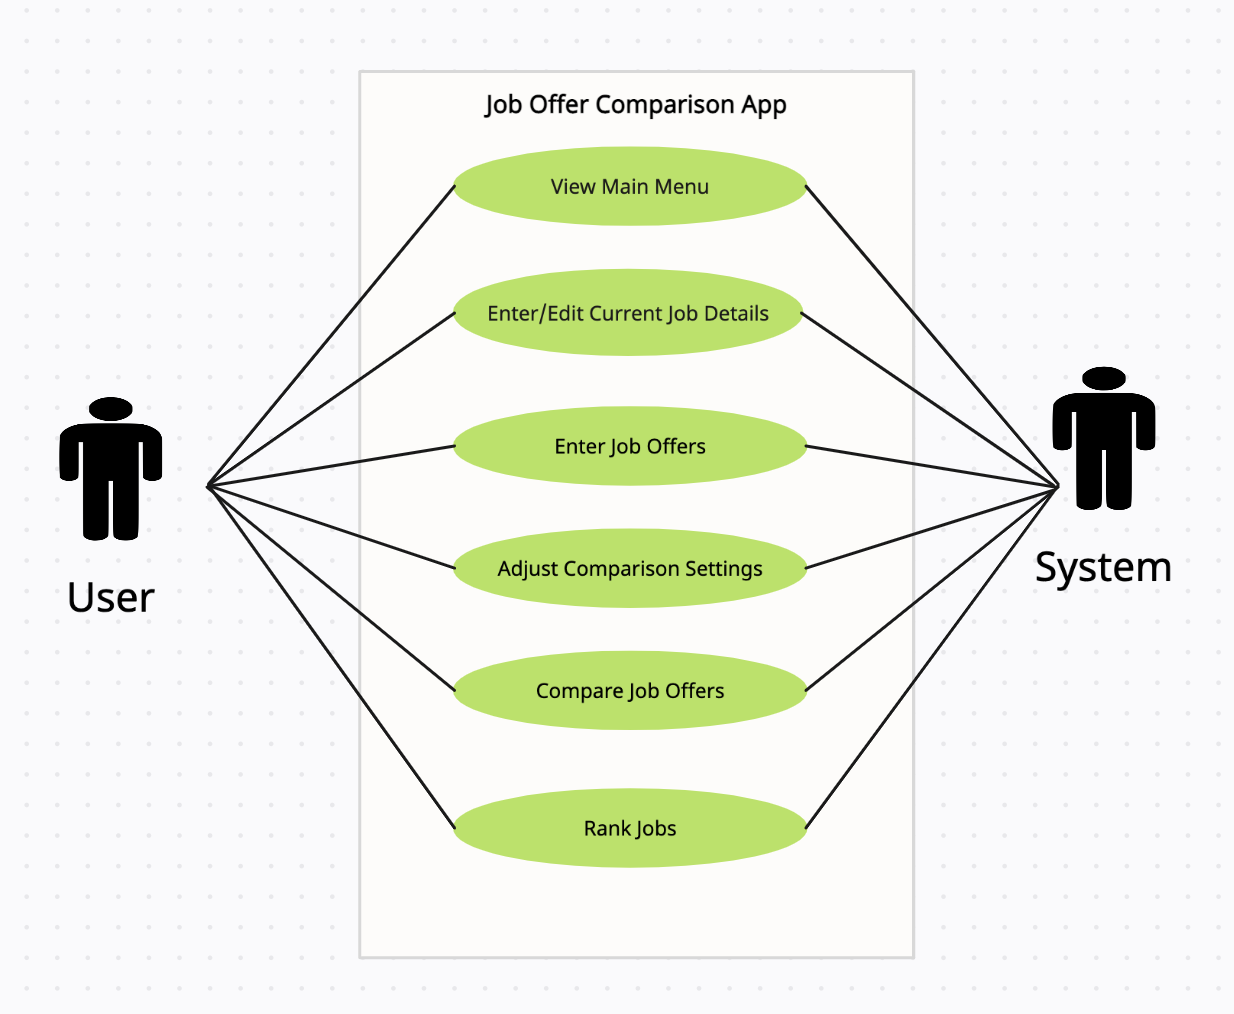
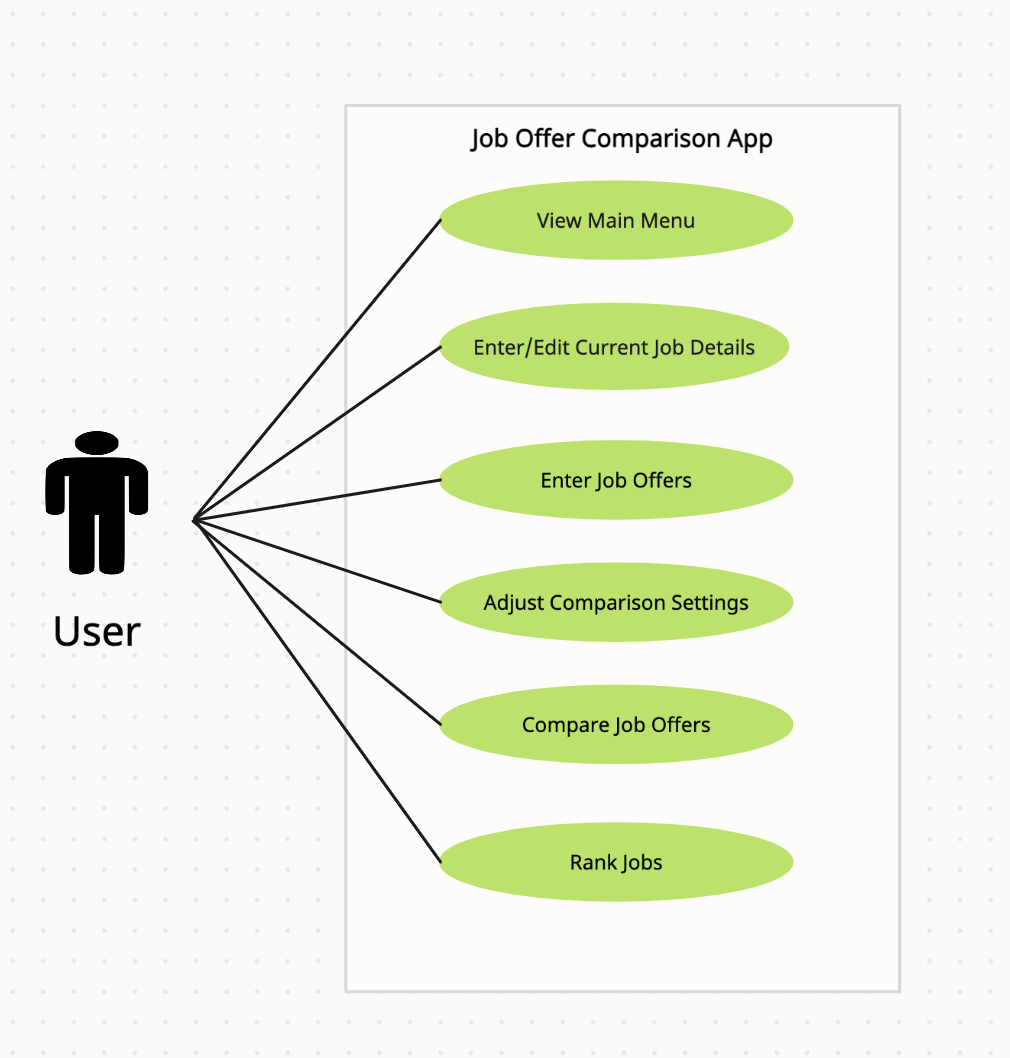
Update use case and component Diagram

diff --git a/GroupProject/Docs/DesignDocument.md b/GroupProject/Docs/DesignDocument.md
@@ -65,9 +65,7 @@
 
 **Comparison Settings Manager:** The Comparison Settings Manager component allows the user to adjust the comparison settings by assigning integer weights to each factor. This component interacts with Storage to save, retrieve and update Comparisions settings for various factors involved.
 
-**Job Comparison Engine:** The Job Comparison Engine component performs the comparison of job offers based on the user's selected criteria. It takes the job data as input, applies the comparison settings, and outputs a ranked list of job offers.
-
-**Job Ranking Engine:** The Job Ranking Engine component calculates the score for each job based on the weights assigned to each criterion. It takes job data as input, applies the weighting formula, and outputs a score for each job.
+**Job Comparison Engine:** The Job Comparison Engine component performs the comparison of job offers based on the user's selected criteria. It takes the job data as input, applies the comparison settings, and outputs a ranked list of job offers. It also calculates the rank for each job based on the weights assigned to each criterion. It takes job data as input, applies the weighting formula, and outputs a score for each job. Based on these scores the comparison is performed.
 
 **Storage:** The Storage component manages the persistent storage of job data. It provides functionality to save, retrieve, and delete job data from a database or file system.
 
